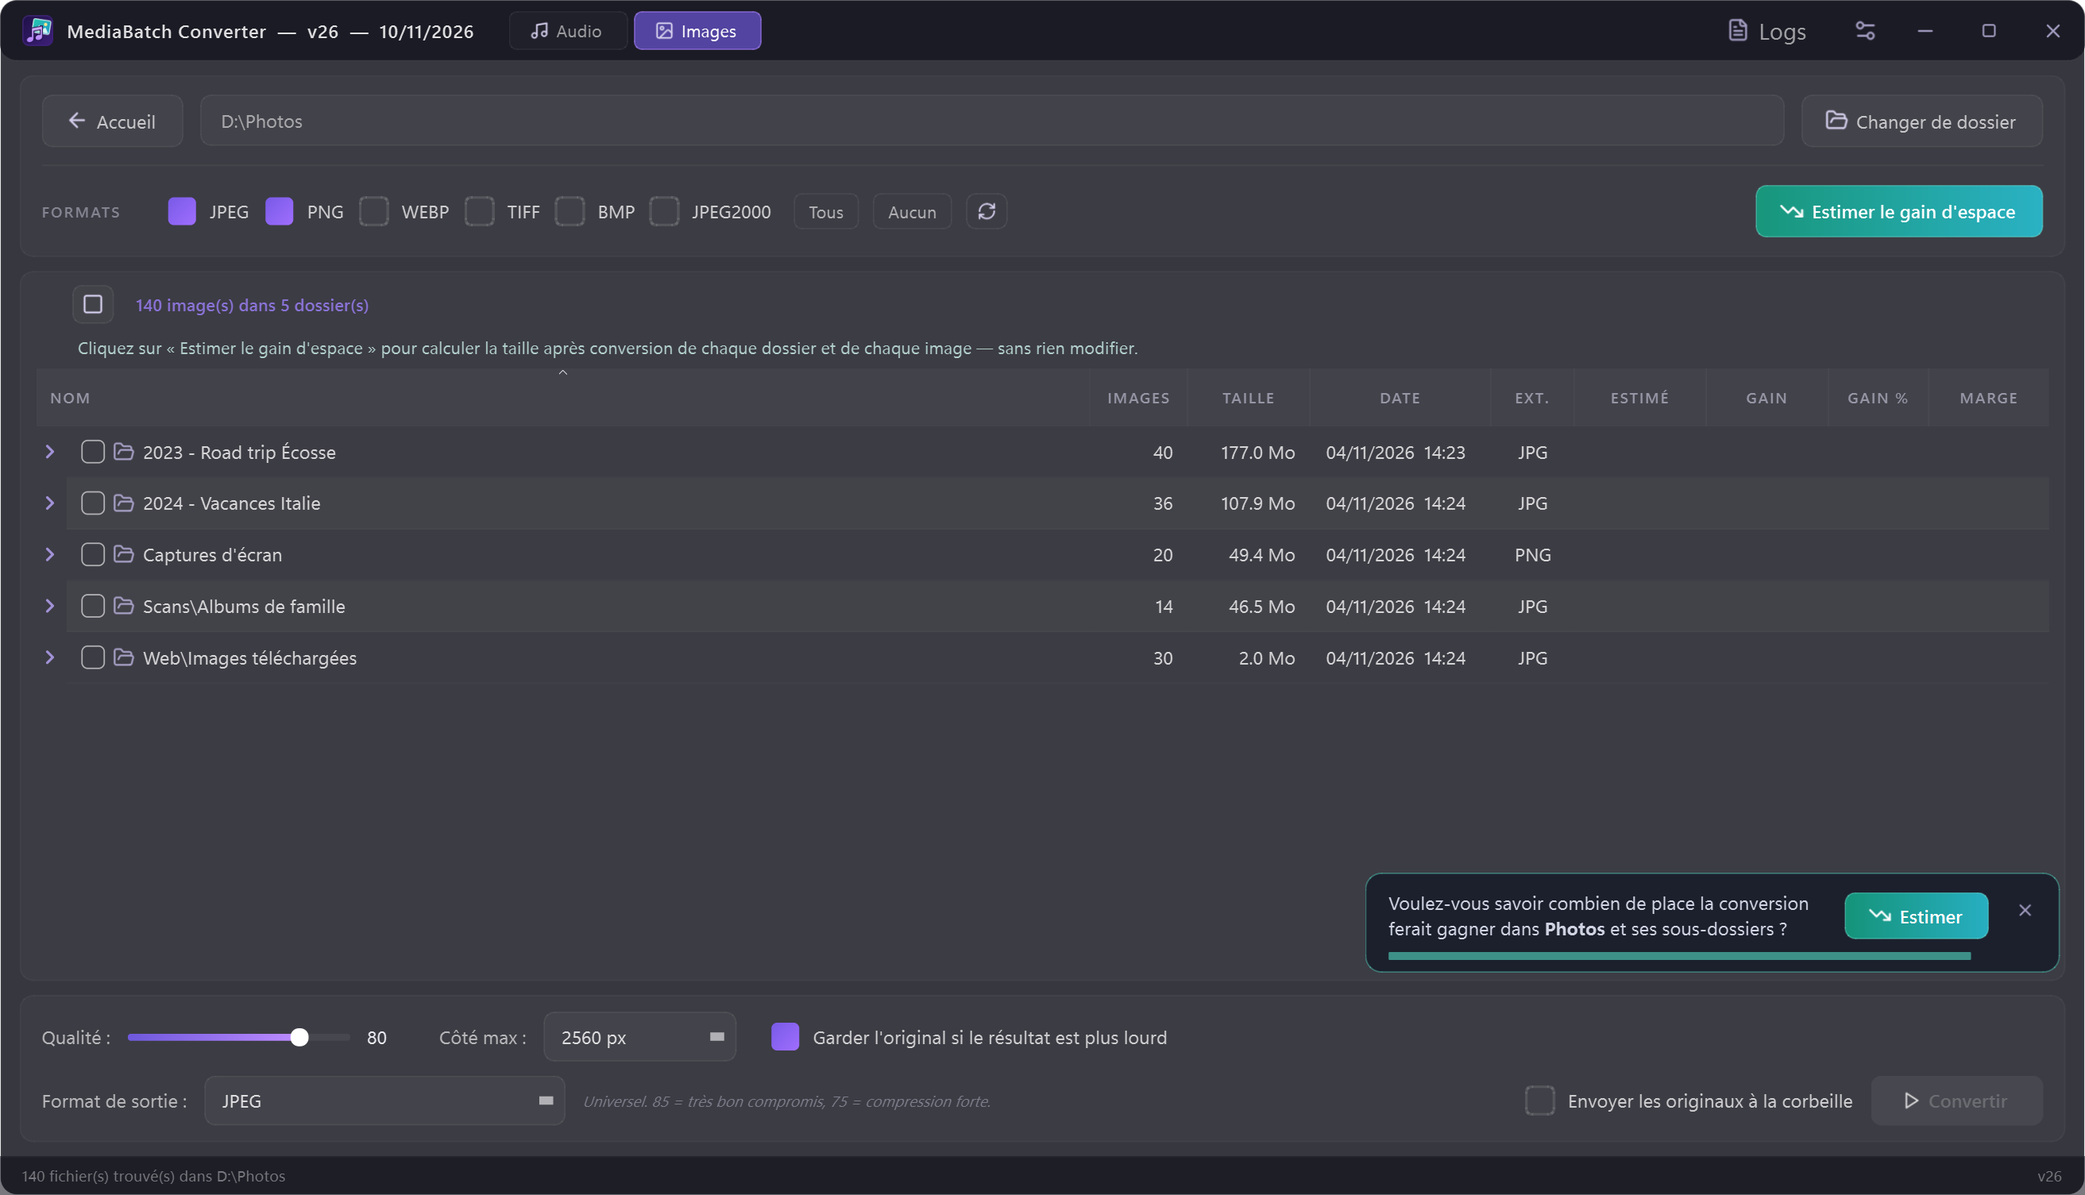
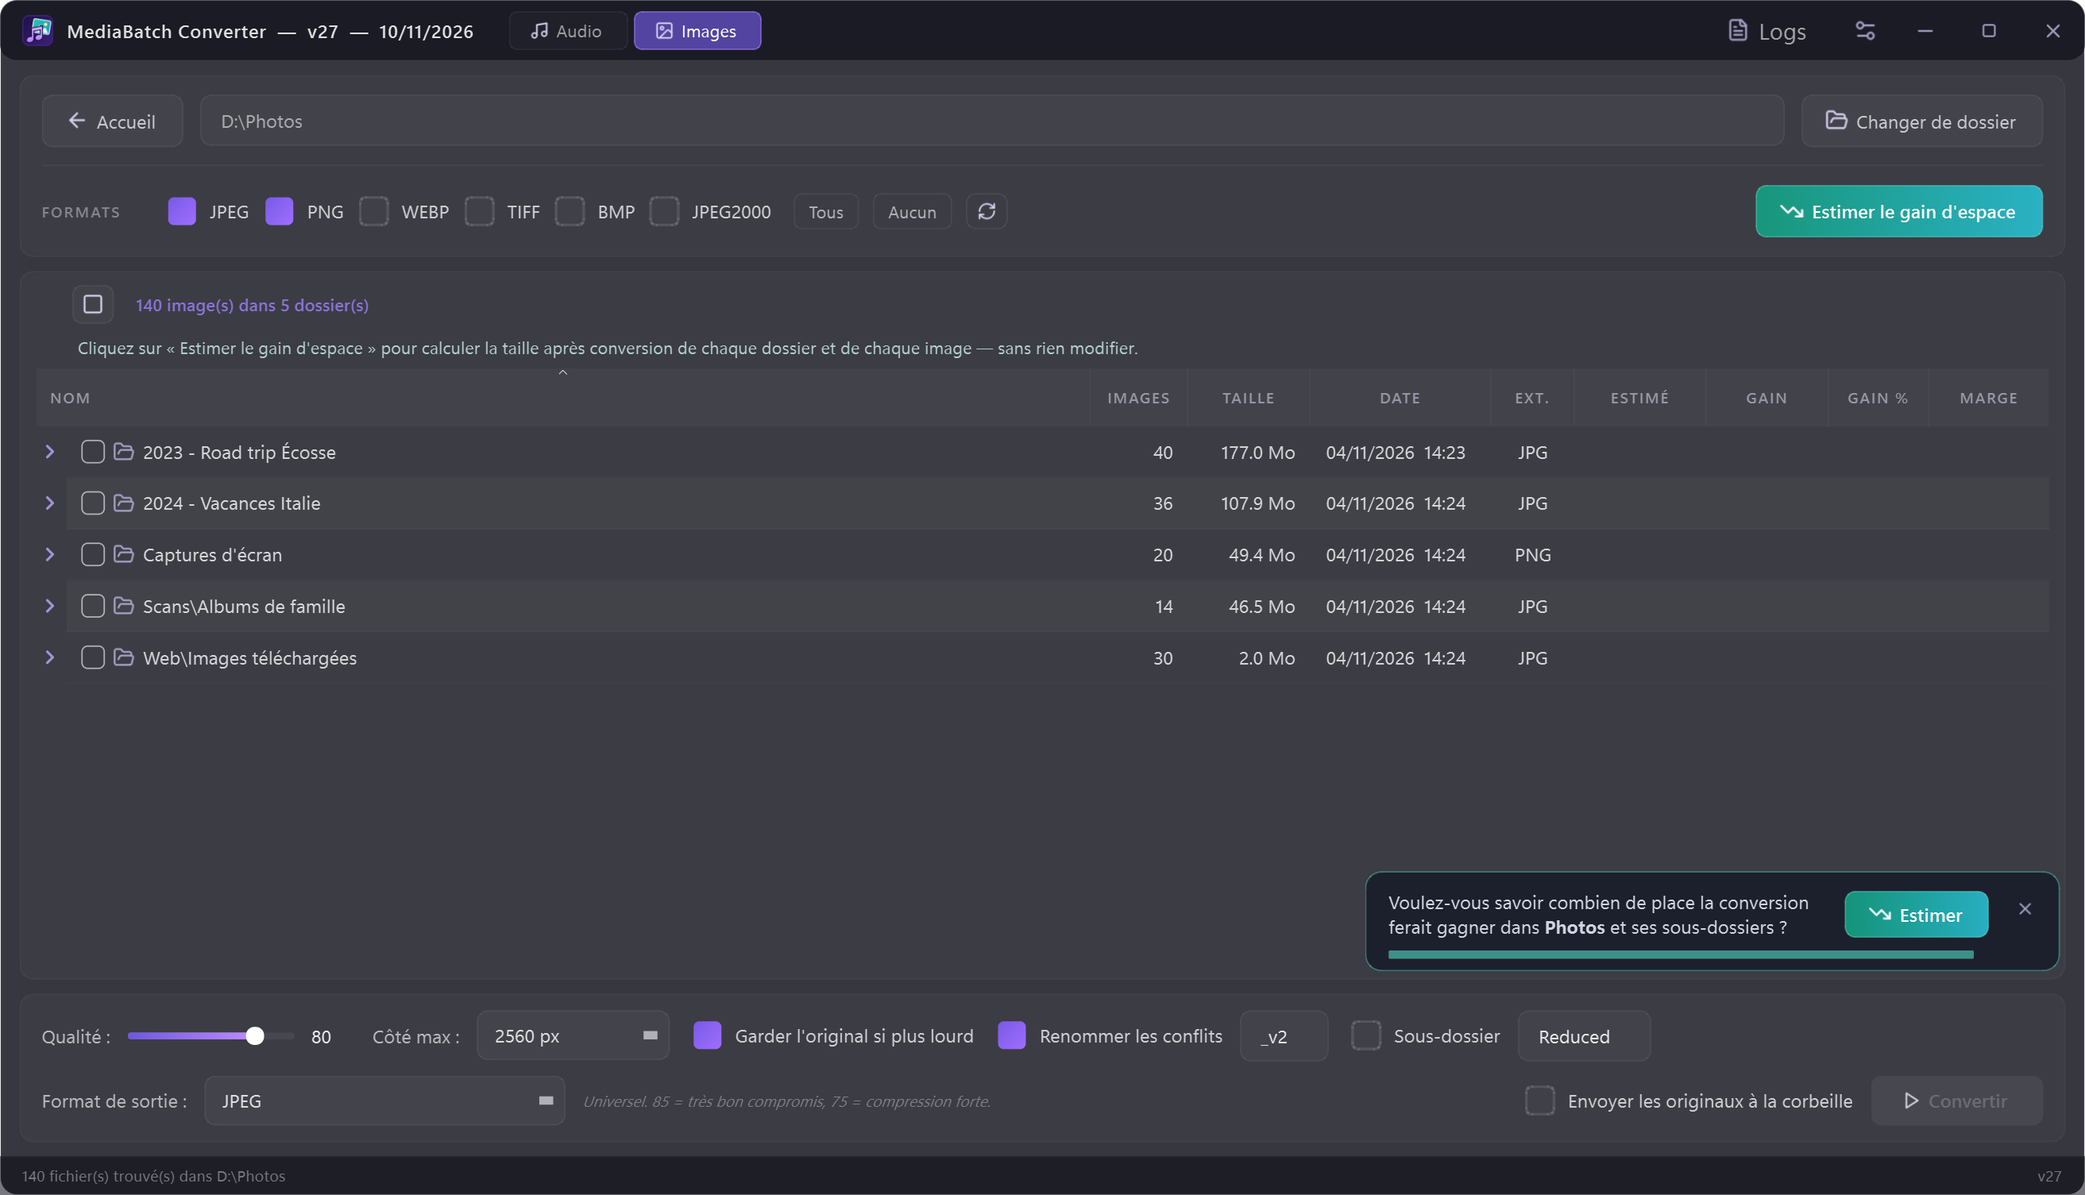
v27: rename-conflict suffix and output subfolder options for images
- "Rename conflicts" with an editable suffix (_v2 by default, then _v3...);
  unticked = overwrite, the original going to the Recycle Bin first when
  "Send originals to the Recycle Bin" is ticked
- "Subfolder" option (Reduced by default) writes outputs next to each
  original; output folders are excluded from the list
- No more conflict dialog in Images mode

diff --git a/ui/main_window.py b/ui/main_window.py
@@ -19,8 +19,8 @@ from core.config    import (APP_TITLE, SUPPORTED_INPUT_FORMATS, OUTPUT_FORMATS,
                              IMAGE_INPUT_FORMATS, IMAGE_OUTPUT_FORMATS,
                              IMAGE_RESIZE_OPTIONS, DEFAULT_SETTINGS, CONFIG_FILE)
 from core.scanner   import FileInfo, scan_directory, file_info_from_path
-from core.converter import ConversionThread, detect_conflicts
-from core.image_converter import ImageConversionThread, SKIPPED
+from core.converter import ConversionThread, detect_conflicts, clean_name
+from core.image_converter import ImageConversionThread, SKIPPED, REPLACED
 from core.image_estimator import EstimateThread, Estimate
 from core.logger    import get_app_logger
 from core.tags      import is_editable
@@ -611,14 +611,14 @@ class MainWindow(QMainWindow):
         io_lay.addWidget(self._lbl_quality)
         self._slider_quality = QSlider(Qt.Orientation.Horizontal)
         self._slider_quality.setRange(1, 100)
-        self._slider_quality.setFixedWidth(160)
+        self._slider_quality.setFixedWidth(120)
         self._slider_quality.valueChanged.connect(self._on_quality_changed)
         io_lay.addWidget(self._slider_quality)
         self._lbl_quality_val = QLabel("85")
         self._lbl_quality_val.setFixedWidth(28)
         io_lay.addWidget(self._lbl_quality_val)
 
-        io_lay.addSpacing(12)
+        io_lay.addSpacing(4)
         lbl_size = QLabel("Côté max :")
         lbl_size.setObjectName("label_field")
         io_lay.addWidget(lbl_size)
@@ -631,11 +631,50 @@ class MainWindow(QMainWindow):
         self._combo_max_side.currentIndexChanged.connect(self._on_image_option_changed)
         io_lay.addWidget(self._combo_max_side)
 
-        io_lay.addSpacing(12)
-        self._chk_keep = QCheckBox("Garder l'original si le résultat est plus lourd")
+        io_lay.addSpacing(4)
+        self._chk_keep = QCheckBox("Garder l'original si plus lourd")
+        self._chk_keep.setToolTip(
+            "Si l'image convertie est plus lourde que l'original,\n"
+            "l'original reste en place, intact, et aucune sortie n'est écrite.")
         self._chk_keep.setChecked(self._settings.get("image_keep_if_larger", True))
         self._chk_keep.toggled.connect(self._on_image_option_changed)
         io_lay.addWidget(self._chk_keep)
+
+        # Conflits : renommer avec un suffixe (sinon écraser)
+        io_lay.addSpacing(4)
+        self._chk_rename = QCheckBox("Renommer les conflits")
+        self._chk_rename.setToolTip(
+            "Si le fichier de sortie existe déjà (par ex. JPEG → JPEG au même endroit),\n"
+            "le suffixe est ajouté au nom : photo_v2.jpg, puis _v3…\n"
+            "Décoché : le fichier existant est écrasé (l'original passe d'abord par la\n"
+            "corbeille si « Envoyer les originaux à la corbeille » est coché).")
+        self._chk_rename.setChecked(self._settings.get("image_rename_conflicts", True))
+        io_lay.addWidget(self._chk_rename)
+        self._edit_suffix = QLineEdit(self._settings.get("image_rename_suffix", "_v2"))
+        self._edit_suffix.setPlaceholderText("_v2")
+        self._edit_suffix.setFixedWidth(64)
+        self._edit_suffix.setToolTip("Suffixe ajouté au nom en cas de conflit")
+        io_lay.addWidget(self._edit_suffix)
+
+        # Sous-dossier de sortie, créé dans le dossier de chaque original
+        io_lay.addSpacing(4)
+        self._chk_subdir = QCheckBox("Sous-dossier")
+        self._chk_subdir.setToolTip(
+            "Enregistre les images converties dans un sous-dossier créé à côté de\n"
+            "chaque original (par ex. Vacances\\Reduced\\photo.jpg).")
+        self._chk_subdir.setChecked(self._settings.get("image_use_subdir", False))
+        io_lay.addWidget(self._chk_subdir)
+        self._edit_subdir = QLineEdit(self._settings.get("image_subdir", "Reduced"))
+        self._edit_subdir.setPlaceholderText("Reduced")
+        self._edit_subdir.setFixedWidth(96)
+        self._edit_subdir.setToolTip("Nom du sous-dossier")
+        io_lay.addWidget(self._edit_subdir)
+
+        for w in (self._chk_rename, self._chk_subdir):
+            w.toggled.connect(self._on_output_option_changed)
+        for w in (self._edit_suffix, self._edit_subdir):
+            w.textChanged.connect(self._on_output_option_changed)
+        self._on_output_option_changed()
 
         io_lay.addStretch()
         self._lbl_estimate = QLabel()
@@ -734,7 +773,9 @@ class MainWindow(QMainWindow):
     def _on_formats_changed(self, *_):
         """Formats cochés ≠ ceux de la liste affichée → le bouton Actualiser clignote."""
         pending = (self._scanned_exts is not None
-                   and set(self._selected_exts()) != self._scanned_exts)
+                   and (set(self._selected_exts()) != self._scanned_exts
+                        or (self._mode == "image"
+                            and self._output_target()[1] != getattr(self, "_scanned_excl", ""))))
         self._set_refresh_pulse(pending)
 
     def _set_refresh_pulse(self, on: bool):
@@ -828,6 +869,16 @@ class MainWindow(QMainWindow):
         self._set_status("Scan en cours…")
         self._files = scan_directory(path, selected_fmts)
         self._scanned_exts = set(selected_fmts)
+        # Sous-dossiers de sortie (« Reduced ») écartés : on ne reconvertit pas
+        # les images déjà converties
+        self._scanned_excl = self._output_target()[1] if self._mode == "image" else ""
+        if self._scanned_excl:
+            excl = self._scanned_excl.lower()
+            root = os.path.normpath(path)
+            self._files = [
+                f for f in self._files
+                if excl not in (part.lower() for part in
+                                os.path.relpath(os.path.dirname(f.path), root).split(os.sep))]
         self._set_refresh_pulse(False)
         self._remember_directory(path)
         self._refresh_list()
@@ -1319,8 +1370,28 @@ class MainWindow(QMainWindow):
             parts.append(f"qualité {quality}")
         parts.append(f"côté max {max_side} px" if max_side else "taille d'origine")
         if keep:
-            parts.append("original gardé si plus léger")
+            parts.append("original gardé si plus lourd")
+        suffix, subdir = self._output_target()
+        if subdir:
+            parts.append(f"dans .\\{subdir}")
+        parts.append(f"conflits renommés « {suffix} »" if suffix else "conflits écrasés")
         return ", ".join(parts)
+
+    def _output_target(self):
+        """(suffixe de renommage ou "" pour écraser, sous-dossier ou "")."""
+        suffix = clean_name(self._edit_suffix.text(), "_v2") if self._chk_rename.isChecked() else ""
+        subdir = clean_name(self._edit_subdir.text(), "Reduced") if self._chk_subdir.isChecked() else ""
+        return suffix, subdir
+
+    def _on_output_option_changed(self, *_):
+        self._edit_suffix.setEnabled(self._chk_rename.isChecked())
+        self._edit_subdir.setEnabled(self._chk_subdir.isChecked())
+        self._settings["image_rename_conflicts"] = self._chk_rename.isChecked()
+        self._settings["image_rename_suffix"]    = self._edit_suffix.text()
+        self._settings["image_use_subdir"]       = self._chk_subdir.isChecked()
+        self._settings["image_subdir"]           = self._edit_subdir.text()
+        if hasattr(self, "_refresh_buttons"):
+            self._on_formats_changed()      # sous-dossier exclu de la liste → Actualiser
 
     def _on_quality_changed(self, value: int):
         self._lbl_quality_val.setText(str(value))
@@ -1465,9 +1536,12 @@ class MainWindow(QMainWindow):
         if not out_fmt:
             return
 
-        # Detect conflicts
-        conflicts = detect_conflicts(selected, out_fmt)
+        # Detect conflicts (mode Images : réglés par les options Renommer / Sous-dossier)
+        conflicts = [] if image else detect_conflicts(selected, out_fmt)
         conflict_mode = "rename"
+        if image:
+            suffix, subdir = self._output_target()
+            conflict_mode = "rename" if suffix else "overwrite"
 
         if conflicts:
             dlg = _ConflictDialog(conflicts, out_fmt["ext"], self)
@@ -1526,6 +1600,9 @@ class MainWindow(QMainWindow):
                 keep_if_larger = keep,
                 parallel       = parallel,
                 conflict       = conflict_mode,
+                suffix         = suffix,
+                subdir         = subdir,
+                recycle_replaced = delete,
             )
         else:
             self._thread = ConversionThread(
@@ -1563,8 +1640,10 @@ class MainWindow(QMainWindow):
             s["src_size"] += size
             if out_path and os.path.exists(out_path):
                 s["out_size"] += os.path.getsize(out_path)
-            # Un original écrasé par sa propre sortie ne part évidemment pas à la Corbeille
-            if os.path.normcase(os.path.abspath(out_path)) != os.path.normcase(os.path.abspath(src_path)):
+            if msg == REPLACED:
+                # Original remplacé par sa sortie : déjà passé par la Corbeille
+                s["replaced_recycled"] = s.get("replaced_recycled", 0) + 1
+            elif os.path.normcase(os.path.abspath(out_path)) != os.path.normcase(os.path.abspath(src_path)):
                 s["to_recycle"].append(src_path)
         else:
             s["failed"].append((os.path.basename(src_path), msg))
@@ -1585,6 +1664,7 @@ class MainWindow(QMainWindow):
                 s["recycled"] = sum(1 for p in s["to_recycle"] if not os.path.exists(p))
             s["recycle_error"] = s["recycled"] < n
             get_app_logger().info("Corbeille : %d / %d original(aux)", s["recycled"], n)
+        s["recycled"] += s.get("replaced_recycled", 0)
         self._lbl_progress.setText("Conversion arrêtée" if s["cancelled"] else "Conversion terminée !")
         self._btn_cancel_conv.hide()
         self._btn_convert.show()

diff --git a/core/image_converter.py b/core/image_converter.py
@@ -1,12 +1,18 @@
 import os
+import threading
 from typing import List, Dict, Any, Tuple
 
 from core.scanner      import FileInfo
 from core.converter    import ConversionThread, get_output_path
 from core.image_codec  import encode_image
+from core.recycle      import send_to_recycle_bin
 
 # Message renvoyé quand l'original est conservé (résultat plus lourd)
 SKIPPED = "skipped"
+# Message renvoyé quand l'original, remplacé par sa sortie, est parti à la Corbeille
+REPLACED = "replaced"
+
+_recycle_lock = threading.Lock()
 
 
 class ImageConversionThread(ConversionThread):
@@ -21,11 +27,17 @@ class ImageConversionThread(ConversionThread):
         keep_if_larger: bool,
         parallel:       int,
         conflict:       str,  # "overwrite" | "rename"
+        suffix:         str  = "_v2",
+        subdir:         str  = "",
+        recycle_replaced: bool = False,
     ):
         super().__init__(files, "", out_fmt, parallel, conflict)
-        self._quality        = quality
-        self._max_side       = max_side
-        self._keep_if_larger = keep_if_larger
+        self._quality          = quality
+        self._max_side         = max_side
+        self._keep_if_larger   = keep_if_larger
+        self._suffix           = suffix
+        self._subdir           = subdir
+        self._recycle_replaced = recycle_replaced
 
     def _convert_one(self, fi: FileInfo) -> Tuple[str, str]:
         if self._cancelled:
@@ -37,7 +49,9 @@ class ImageConversionThread(ConversionThread):
             # Rien à gagner : l'original reste en place, intact
             return fi.path, SKIPPED
 
-        dst = get_output_path(fi.path, self._out_fmt["ext"], self._conflict)
+        dst = get_output_path(fi.path, self._out_fmt["ext"], self._conflict,
+                              self._suffix, self._subdir)
+        os.makedirs(os.path.dirname(dst), exist_ok=True)
 
         # Écriture via un fichier temporaire : un écrasement interrompu ne
         # laisse jamais une image tronquée à la place de l'original
@@ -45,7 +59,20 @@ class ImageConversionThread(ConversionThread):
         tmp = dst + ".part"
         with open(tmp, "wb") as f:
             f.write(data)
+
+        msg = ""
+        same_file = os.path.normcase(os.path.abspath(dst)) == os.path.normcase(os.path.abspath(fi.path))
+        if same_file and self._recycle_replaced:
+            # L'original va être remplacé par sa sortie : il passe d'abord par la
+            # Corbeille pour rester récupérable
+            with _recycle_lock:
+                ok = send_to_recycle_bin([fi.path]) and not os.path.exists(fi.path)
+            if not ok:
+                os.remove(tmp)
+                raise RuntimeError("impossible d'envoyer l'original à la corbeille")
+            msg = REPLACED
+
         os.replace(tmp, dst)
         # Conserver la date de modification (tri chronologique des photos)
         os.utime(dst, (st.st_atime, st.st_mtime))
-        return dst, ""
+        return dst, msg

diff --git a/core/converter.py b/core/converter.py
@@ -1,4 +1,5 @@
 import os
+import re
 import subprocess
 from concurrent.futures import ThreadPoolExecutor, as_completed
 from typing import List, Dict, Any
@@ -9,30 +10,58 @@ from core.scanner import FileInfo
 from core.logger import get_app_logger, get_export_logger
 
 
-def get_output_path(src: str, out_ext: str, conflict: str = "rename") -> str:
+_INVALID_NAME_CHARS = '<>:"/\\|?*'
+
+
+def clean_name(text: str, fallback: str) -> str:
+    """Nom de fichier/dossier sûr (caractères interdits retirés), *fallback* si vide."""
+    text = "".join(c for c in (text or "") if c not in _INVALID_NAME_CHARS).strip().rstrip(".")
+    return text or fallback
+
+
+def _suffix_candidates(suffix: str):
+    """_v2 → _v2, _v3, _v4…   ·   -small → -small, -small2, -small3…"""
+    m = re.match(r"^(.*?)(\d+)$", suffix)
+    if m:
+        head, n = m.group(1), int(m.group(2))
+        while True:
+            yield f"{head}{n}"
+            n += 1
+    yield suffix
+    n = 2
+    while True:
+        yield f"{suffix}{n}"
+        n += 1
+
+
+def get_output_path(src: str, out_ext: str, conflict: str = "rename",
+                    suffix: str = "_v1", subdir: str = "") -> str:
     """
-    Build output path.  conflict = "overwrite" | "rename"
-    For "rename" mode: appends _v1, _v2 ... if the target already exists.
+    Chemin de sortie.  conflict = "overwrite" | "rename"
+    *subdir* : sous-dossier (dans le dossier de l'original) où écrire la sortie.
+    En mode "rename", si la cible existe déjà, ajoute *suffix* (_v2, puis _v3…).
     """
-    base = os.path.splitext(src)[0]
+    folder, name = os.path.split(src)
+    if subdir:
+        folder = os.path.join(folder, subdir)
+    base = os.path.join(folder, os.path.splitext(name)[0])
     dst  = f"{base}.{out_ext}"
 
     if conflict == "overwrite" or not os.path.exists(dst):
         return dst
 
-    # rename: find first available _vN
-    counter = 1
-    while os.path.exists(f"{base}_v{counter}.{out_ext}"):
-        counter += 1
-    return f"{base}_v{counter}.{out_ext}"
+    for sfx in _suffix_candidates(suffix or "_v1"):
+        cand = f"{base}{sfx}.{out_ext}"
+        if not os.path.exists(cand):
+            return cand
 
 
-def detect_conflicts(files: List[FileInfo], out_fmt: Dict[str, Any]) -> List[FileInfo]:
+def detect_conflicts(files: List[FileInfo], out_fmt: Dict[str, Any],
+                     subdir: str = "") -> List[FileInfo]:
     """Return files whose direct output path (same name, new ext) already exists."""
     conflicts = []
     for f in files:
-        direct = os.path.splitext(f.path)[0] + "." + out_fmt["ext"]
-        if os.path.exists(direct):
+        if os.path.exists(get_output_path(f.path, out_fmt["ext"], "overwrite", subdir=subdir)):
             conflicts.append(f)
     return conflicts
 

diff --git a/core/config.py b/core/config.py
@@ -2,7 +2,7 @@ import os
 import sys
 
 # !! IMPORTANT : incrémenter APP_VERSION à chaque modification du code !!
-APP_VERSION = 26
+APP_VERSION = 27
 APP_DATE = "10/11/2026"
 APP_TITLE = f"MediaBatch Converter  —  v{APP_VERSION}  —  {APP_DATE}"
 
@@ -185,5 +185,9 @@ DEFAULT_SETTINGS = {
     "image_quality":         {},        # id de format → qualité choisie
     "image_max_side":        0,
     "image_keep_if_larger":  True,
+    "image_rename_conflicts": True,     # sinon : écraser
+    "image_rename_suffix":   "_v2",
+    "image_use_subdir":      False,
+    "image_subdir":          "Reduced",
     "recent_directories":    [],        # 5 derniers dossiers utilisés
 }

diff --git a/README.md b/README.md
@@ -20,7 +20,9 @@ Switch between **🎵 Audio** and **🖼 Images** from the title bar (the app re
 - **Quality slider** per format, optional **downscaling** (longest side 1024 → 4096 px).
 - **EXIF, colour profile and DPI preserved**; file modification date kept (your photos stay sorted by date).
 - PNG transparency is flattened onto white for JPEG.
-- **"Keep the original if the result is larger"** — re-compressing an already well-compressed JPEG never makes it heavier.
+- **"Keep the original if larger"** — re-compressing an already well-compressed JPEG never makes it heavier.
+- **"Rename conflicts"** with an editable suffix (`_v2` by default) — when the output already exists (e.g. JPEG → JPEG in place), it is saved as `photo_v2.jpg`, then `_v3`… Untick it to overwrite instead; the original then goes to the Recycle Bin first if *Send originals to the Recycle Bin* is ticked.
+- **"Subfolder"** (`Reduced` by default) — writes the converted images to a subfolder created next to each original (`Holidays\Reduced\photo.jpg`). These output folders are left out of the file list, so they are never converted twice.
 - **Live size estimate** of the selection (`383 MB → ≈ 66 MB, −83 % (± 5 %)`), updated as you move the quality slider.
 - **Folder view**: images are grouped by folder, folders start collapsed (images sitting directly in the chosen folder are listed on their own). Tick a folder to select all its images.
 - **Estimate space savings** (teal button): fills the *Estimated / Gain / Gain % / Margin* columns right in the list, for every folder and every image — gain % colour-coded from *worth it* (green) to *barely useful* (red), images used as test conversions marked *measured*. A live activity line shows what is being done; sort any column at any time; click again to stop.
